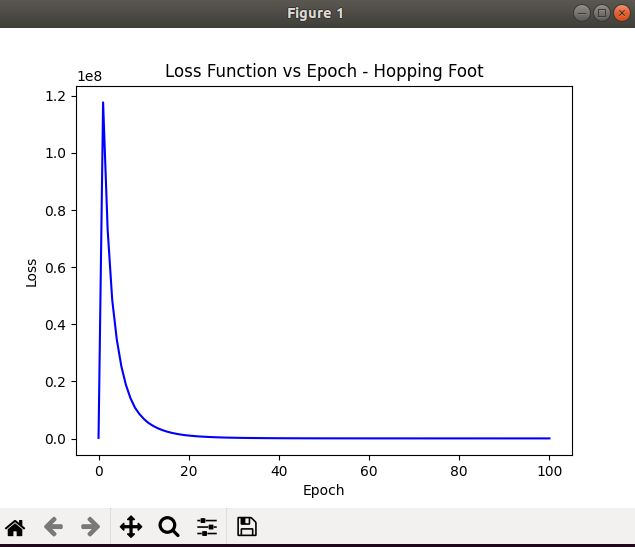
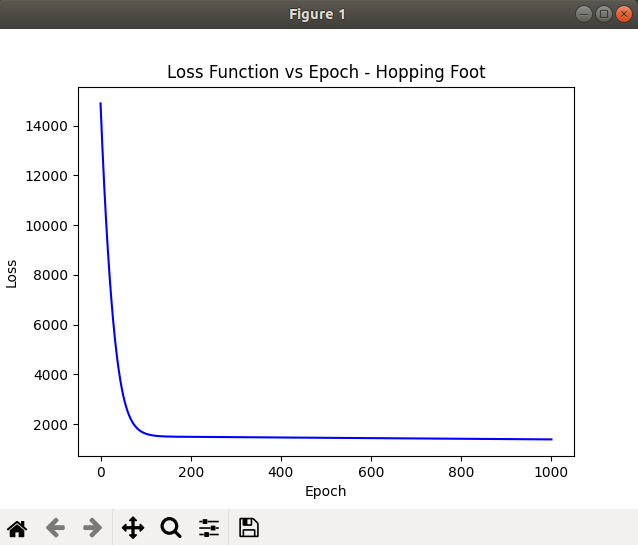
Updated image

diff --git a/tf_nn_real.py b/tf_nn_real.py
@@ -168,7 +168,7 @@ d_loss_dx = tf.gradients(loss, x)[0]
 print("")
 print("")
 
-optimizer = tf.train.GradientDescentOptimizer(0.000001)
+optimizer = tf.train.GradientDescentOptimizer(0.00000001)
 train_op = optimizer.minimize(loss)
 
 
@@ -188,7 +188,7 @@ saver = tf.train.Saver()
 
 
 # Train on the training set
-epochs = 100
+epochs = 1000
 with tf.Session() as sess:
 
     # Initialize the variables
